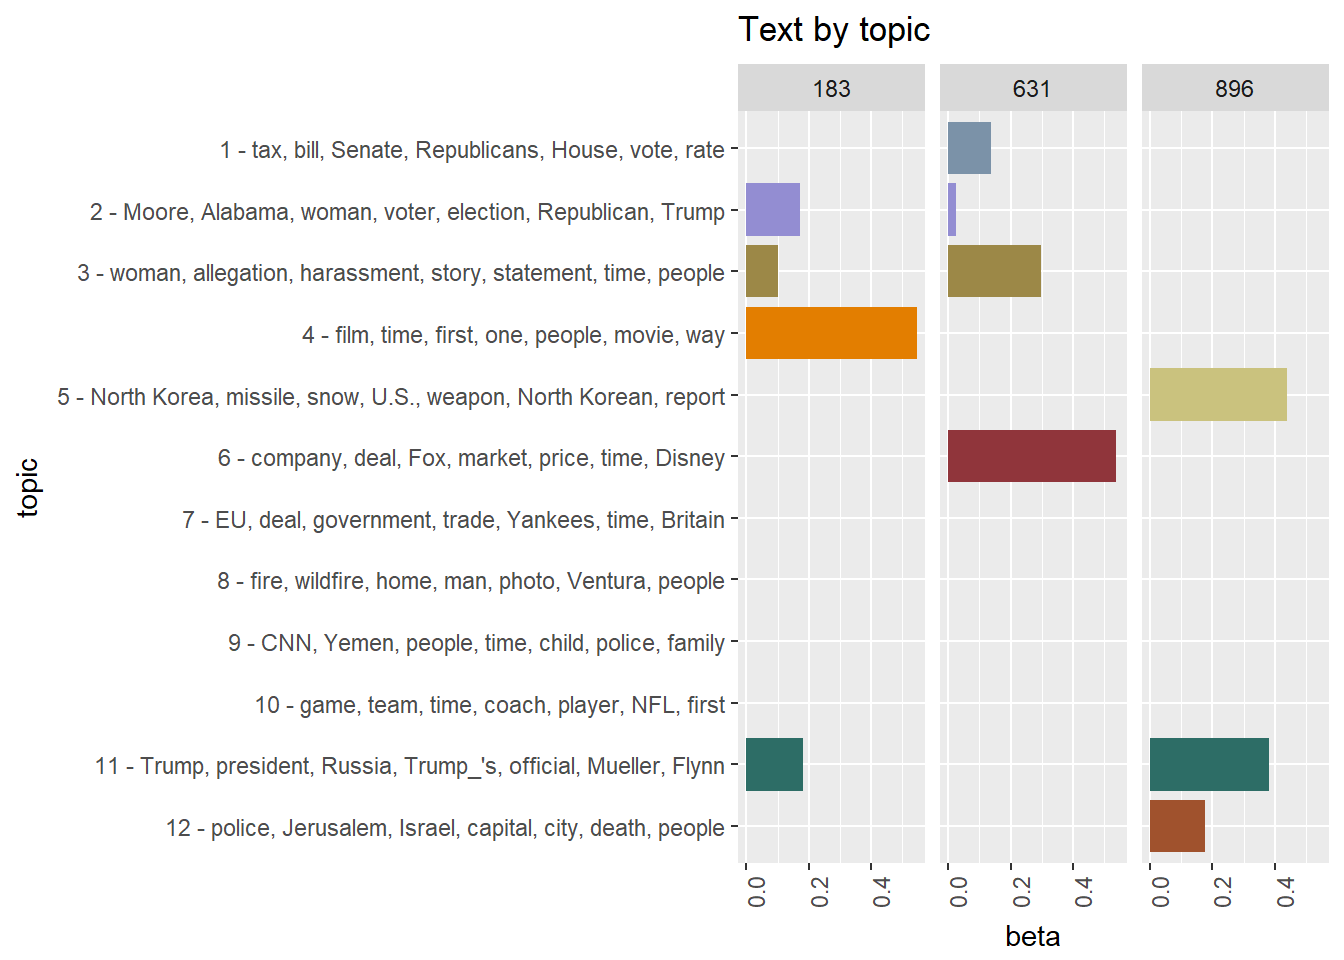
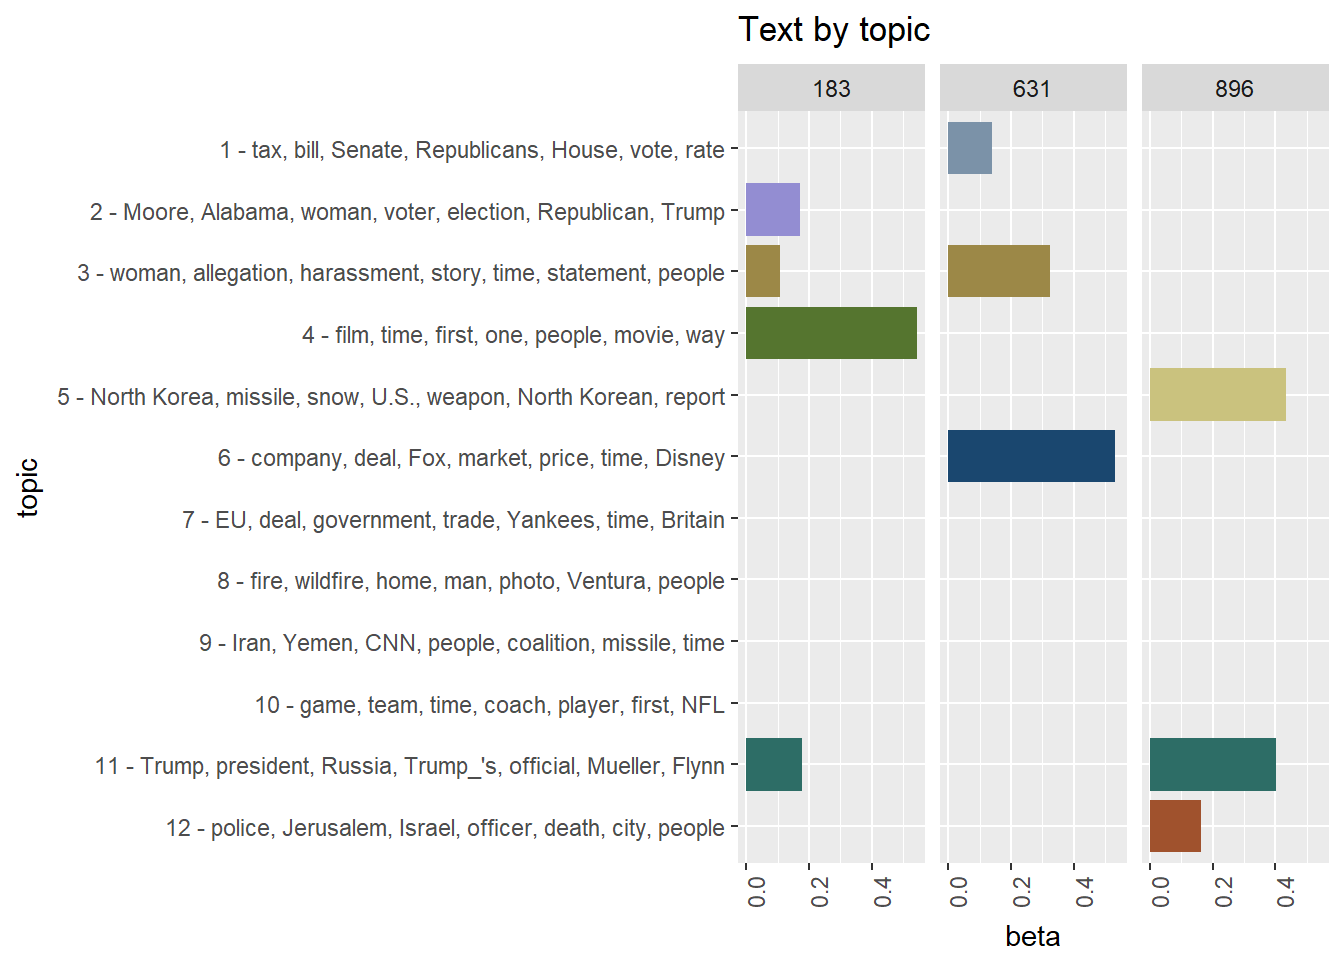
re

diff --git a/content/post/2018-01-07-static-and-historical-approaches-to-topic-modeling.html b/content/post/2018-01-07-static-and-historical-approaches-to-topic-modeling.html
@@ -16,7 +16,6 @@ banner: banners/topic.jpg
 
 <div id="TOC">
 <ul>
-<li><a href="#topic-models-and-text-structures">Topic models and text structures</a></li>
 <li><a href="#synchronic-application">Synchronic application</a></li>
 <li><a href="#diachronic-application">Diachronic application</a></li>
 <li><a href="#topic-clusters">Topic clusters</a></li>
@@ -33,28 +32,23 @@ library(tidytext)
 library(spacyr)</code></pre>
 <pre class="r"><code>library(corpusdatr)#devtools::install_github(&quot;jaytimm/corpusdatr&quot;)
 library(corpuslingr)#devtools::install_github(&quot;jaytimm/corpuslingr&quot;)</code></pre>
-<div id="topic-models-and-text-structures" class="section level2">
-<h2>Topic models and text structures</h2>
 <p>Very quickly, topic modeling is an unsupervised text classification methodology in which</p>
 <ul>
 <li>documents are modeled as composites of topics, and</li>
 <li>topics are modeled as composites of features/words.</li>
 </ul>
 <p>The approach to topic modeling employed here is latent Dirichlet allocation (LDA); to fit our models, we use the <code>LDA</code> function from the <code>topicmodels</code> package <span class="citation">(Hornik and Grün <a href="#ref-hornik2011topicmodels">2011</a>)</span>.</p>
-<p>Like most topic modeling functions, the <code>topicmodels::LDA</code> function requires a <code>DocumentTermMatrix</code> as input. Informally, a DTM is simply a data structure in which each document in a corpus is represented in terms of its constitutent features and their frequencies (where features could be defined in terms of lemma, token, n-gram, keyphrase, etc).</p>
-<p>As a data structure in R, however, a <code>DocumentTermMatrix</code> is awkward and not especially intuitive to work with. Conveniently, the <code>cast_sparse</code> function from the <code>tidytext</code> package allows us to get from informal DTM to formal DTM quite easily.</p>
-</div>
 <div id="synchronic-application" class="section level2">
 <h2>Synchronic application</h2>
 <p>In our first example, we investigate topics in the annotated Slate Magazine corpus (ca 1996-2000, 1K texts, 1m words), available as <code>cdr_slate_ann</code> from the <code>corpusdatr</code> package. The corpus has been annotated using the <code>spacyr</code> package, and is functionally a synchronic (or static) corpus by virtue of not containing publication date information.</p>
-<p>Using the <code>clr_get_freq</code> function from the <code>corpuslingr</code> package, then, we create a DTM of the corpus using the lemma as our feature unit, and limit feature composition to nouns and entities.</p>
+<p>The first step in building the model is to summarize our corpus; here, this means representing each document in the corpus in terms of its constitutent features and feature frequencies, ie, as a bag-of-words (BOW). To accomplish this task, we use the <code>clr_get_freq</code> function from the <code>corpuslingr</code> package. We set the lemma as our feature unit, and limit feature composition to nouns and entities.</p>
 <pre class="r"><code>dtm &lt;- corpusdatr::cdr_slate_ann %&gt;%
   spacyr::entity_consolidate() %&gt;%
   filter(tag %in% c(&quot;NN&quot;, &quot;NNS&quot;) | pos ==&#39;ENTITY&#39;)%&gt;%
   corpuslingr::clr_get_freq(agg_var=c(&#39;doc_id&#39;,&#39;lemma&#39;),
                             toupper=FALSE)%&gt;%
   arrange(doc_id)</code></pre>
-<p>Example portion of text as a DTM:</p>
+<p>Example portion of the corpus-as-BOW:</p>
 <pre><code>##   doc_id   lemma txtf docf
 ## 1      1   noise   14   25
 ## 2      1     lip    9   24
@@ -62,7 +56,8 @@ library(corpuslingr)#devtools::install_github(&quot;jaytimm/corpuslingr&quot;)</
 ## 4      1    walk    6   24
 ## 5      1     one    5  874
 ## 6      1 service    5  177</code></pre>
-<p>Per the output of <code>clr_get_freq</code>, we can filter out features with extreme document frequencies (ie, features with limited utility in classificaion). We then convert the DTM to a formal DTM using the <code>cast_sparse</code> function.</p>
+<p>Like most topic modeling functions, <code>topicmodels::LDA</code> requires a document-term matrix (DTM) as input. A DTM is a sparse matrix and, as a data structure, is awkward to work with. Conveniently, the <code>cast_sparse</code> function from the <code>tidytext</code> package allows us to get from corpus-as-BOW to formal DTM quite easily.</p>
+<p>Per the output of <code>clr_get_freq</code>, we filter out features with extreme document frequencies (ie, features with limited utility in classification), and then build the DTM with <code>cast_sparse</code>.</p>
 <pre class="r"><code>static_DTM &lt;- dtm%&gt;%
   filter(docf &lt; 500 &amp; docf &gt; 5)%&gt;%
   tidytext::cast_sparse(row=doc_id,column=lemma,value=txtf)</code></pre>
@@ -117,7 +112,7 @@ Corpus and some descriptives
 </h4>
 </p>
 <p>The corpus is comprised of web-based news articles published during a three-week time period (11-27/17 to 12/20/17). Articles were retrieved using my <code>quicknews</code> package, which leverages Goggle News’ RSS feed to direct search, and annotated using the <code>spacyr</code> package.</p>
-<p>For the sake of avoiding copyright issues, each constituent article in the corpus is reduced to a document-term matrix (DTM). The corpus is comprised of ~1,500 texts, ~1.3 million words, and ~200 unique media sources.</p>
+<p>For the sake of avoiding copyright issues, each constituent article in the corpus has already been reduced to a BOW. The corpus is comprised of ~1,500 texts, ~1.3 million words, and ~200 unique media sources.</p>
 <p>Example corpus metadata:</p>
 <pre class="r"><code>head(cdr_gnews_meta)[1:4]</code></pre>
 <pre><code>##   doc_id   pubdates          source
@@ -183,16 +178,16 @@ Topic Model
 ##    &lt;chr&gt;                                                         
 ##  1 tax, bill, Senate, Republicans, House, vote, rate             
 ##  2 Moore, Alabama, woman, voter, election, Republican, Trump     
-##  3 woman, allegation, harassment, story, statement, time, people 
+##  3 woman, allegation, harassment, story, time, statement, people 
 ##  4 film, time, first, one, people, movie, way                    
 ##  5 North Korea, missile, snow, U.S., weapon, North Korean, report
 ##  6 company, deal, Fox, market, price, time, Disney               
 ##  7 EU, deal, government, trade, Yankees, time, Britain           
 ##  8 fire, wildfire, home, man, photo, Ventura, people             
-##  9 CNN, Yemen, people, time, child, police, family               
-## 10 game, team, time, coach, player, NFL, first                   
+##  9 Iran, Yemen, CNN, people, coalition, missile, time            
+## 10 game, team, time, coach, player, first, NFL                   
 ## 11 Trump, president, Russia, Trump_&#39;s, official, Mueller, Flynn  
-## 12 police, Jerusalem, Israel, capital, city, death, people</code></pre>
+## 12 police, Jerusalem, Israel, officer, death, city, people</code></pre>
 <p>So a busy three weeks. The special Senate election in Alabama (and surrounding controversey), wildfires in California, North Korea, the Mueller investigation, tax reform, the #MeToo movement.</p>
 <p>
 <h4>
